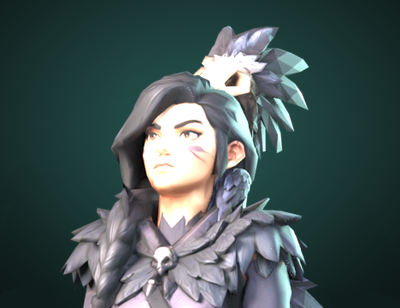
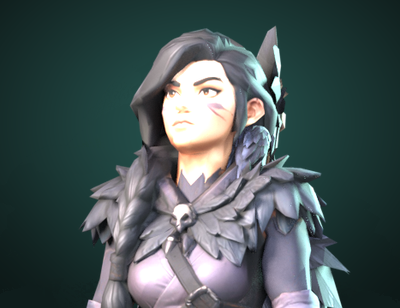
Ravnas kråkskallemask vänd rätt och lägre: näbben bakåt (Yaw 180 -> 0, maskens näbb ligger på -z så Yaw 180 hade vänt den framåt) och 0,08 lägre (At y 0.05 -> -0.03), så skallen syns bakifrån och bara några fjädertoppar sticker upp framifrån. Porträttet omrenderat med den nya placeringen. Rickard 18
Claude-Session: https://claude.ai/code/session_01M7eBmsdbX5dujjbvcNASSn

diff --git a/Assets/BAM/Art/Weapons.cs b/Assets/BAM/Art/Weapons.cs
@@ -604,8 +604,8 @@ namespace BAM.Art
                 new WornDef { Model = "v2_nassla_basket", Bone = Chest, From = LArm, To = RArm, Height = 0.22f, At = new Vector3(0f, -0.16f, -0.09f) },
             };
 
-            // Ravna (on hold, Preview): talon daggers in both fists, the crow-skull mask on her head (beak turned to the front in the
-            // conversion), the mantle from her shoulders and the crow on her left shoulder
+            // Ravna (on hold, Preview): talon daggers in both fists, the crow-skull mask on the back of her head (its mesh has the beak
+            // at -z, so Yaw 0 keeps the beak to the back), the mantle from her shoulders and the crow on her left shoulder
             GearDef rv = g[(int)HeroId.Ravna];
             rv.Weapons[0].Model = "v2_ravna_dagger"; rv.Weapons[1].Model = "v2_ravna_dagger";
             rv.Worn = new[]
@@ -613,8 +613,11 @@ namespace BAM.Art
                 new WornDef { Model = "v2_ravna_mantle", Bone = Chest, From = LArm, To = RArm, Height = 0.55f, At = new Vector3(0f, 0.03f, -0.05f), Flat = 0.8f, Sway = 20f },
                 // the crow-skull mask on the BACK of her head, beak to the back, bigger (Rickard 2026-11-16 "ravnas mask skulle kunna sitta på
                 // baksidan av huvudet så blir det naturligt större också"; was on her face, 0.19 high at 0.05): turned half round, its middle
-                // 0.06 behind the head joint and pressed flatter so its front edge stops about at the crown and the face stays free
-                new WornDef { Model = "v2_ravna_mask", Bone = Head, From = Head, Height = 0.22f, At = new Vector3(0f, 0.05f, -0.06f), Yaw = 180f, Flat = 0.7f },
+                // 0.06 behind the head joint and pressed flatter so its front edge stops about at the crown and the face stays free.
+                // Rickard 2026-11-18 "masken är åt fel håll och för högt upp": Yaw 180 had turned the beak to the FRONT (the mesh's beak
+                // is at -z) and it stood above her head; Yaw 0 and 0.08 lower (0.05 -> -0.03): skull and beak seen from behind, only
+                // a few feather tips over her hair from the front (bam-work/hero-review-2026-11-16/ravna-portrait/mask-fore-efter.png)
+                new WornDef { Model = "v2_ravna_mask", Bone = Head, From = Head, Height = 0.22f, At = new Vector3(0f, -0.03f, -0.06f), Flat = 0.7f },
                 // the crow on top of her left shoulder, between the neck and the shoulder ball, feet in the mantle's feathers: at x -0.015
                 // (out past the shoulder ball) and 0.04 up it stood outside her on the mantle's edge (Rickard 2026-11-16 "Fågeln utanför")
                 new WornDef { Model = "v2_ravna_crow", Bone = HumanBodyBones.LeftShoulder, From = LArm, Height = 0.1f, At = new Vector3(0.035f, 0.025f, -0.01f) },
